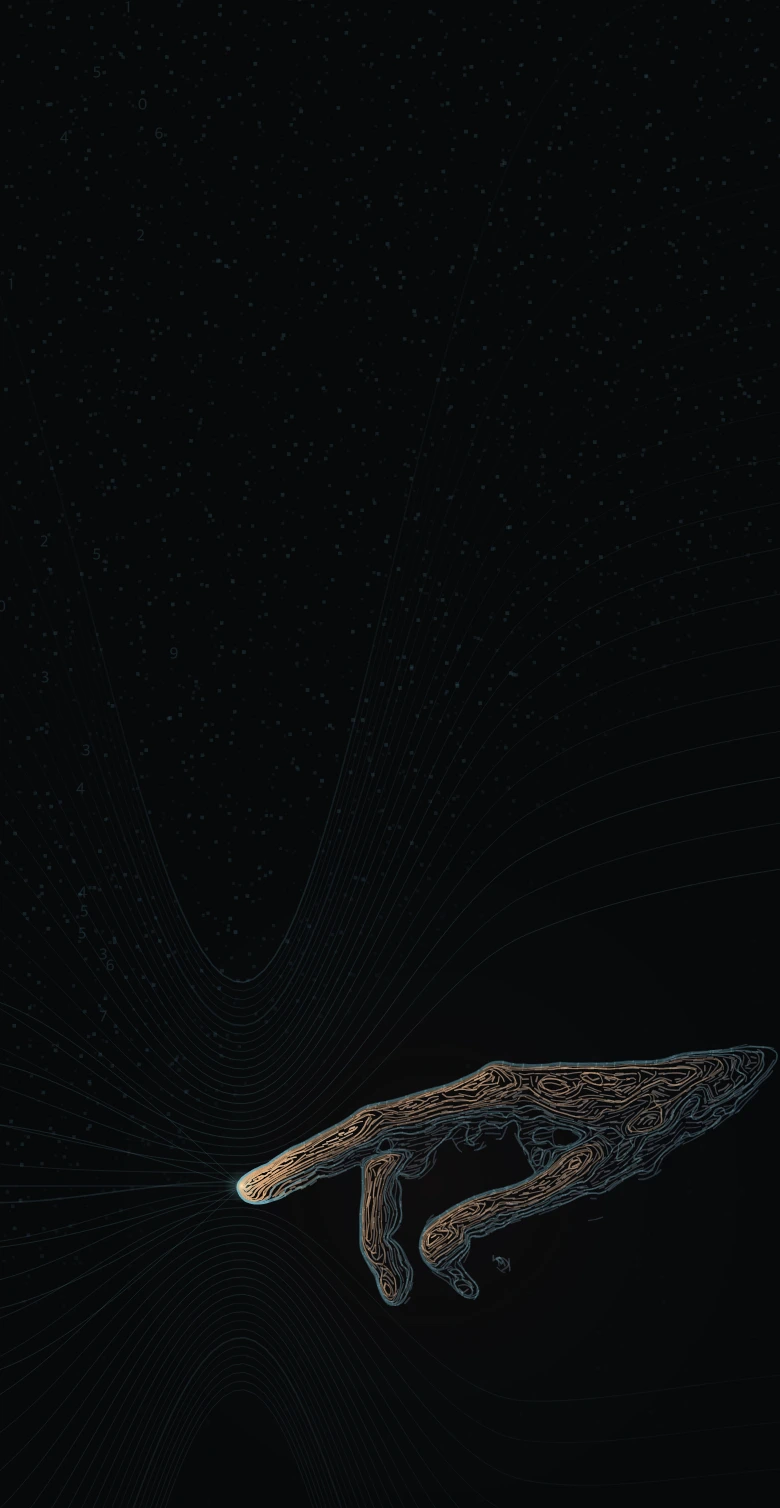
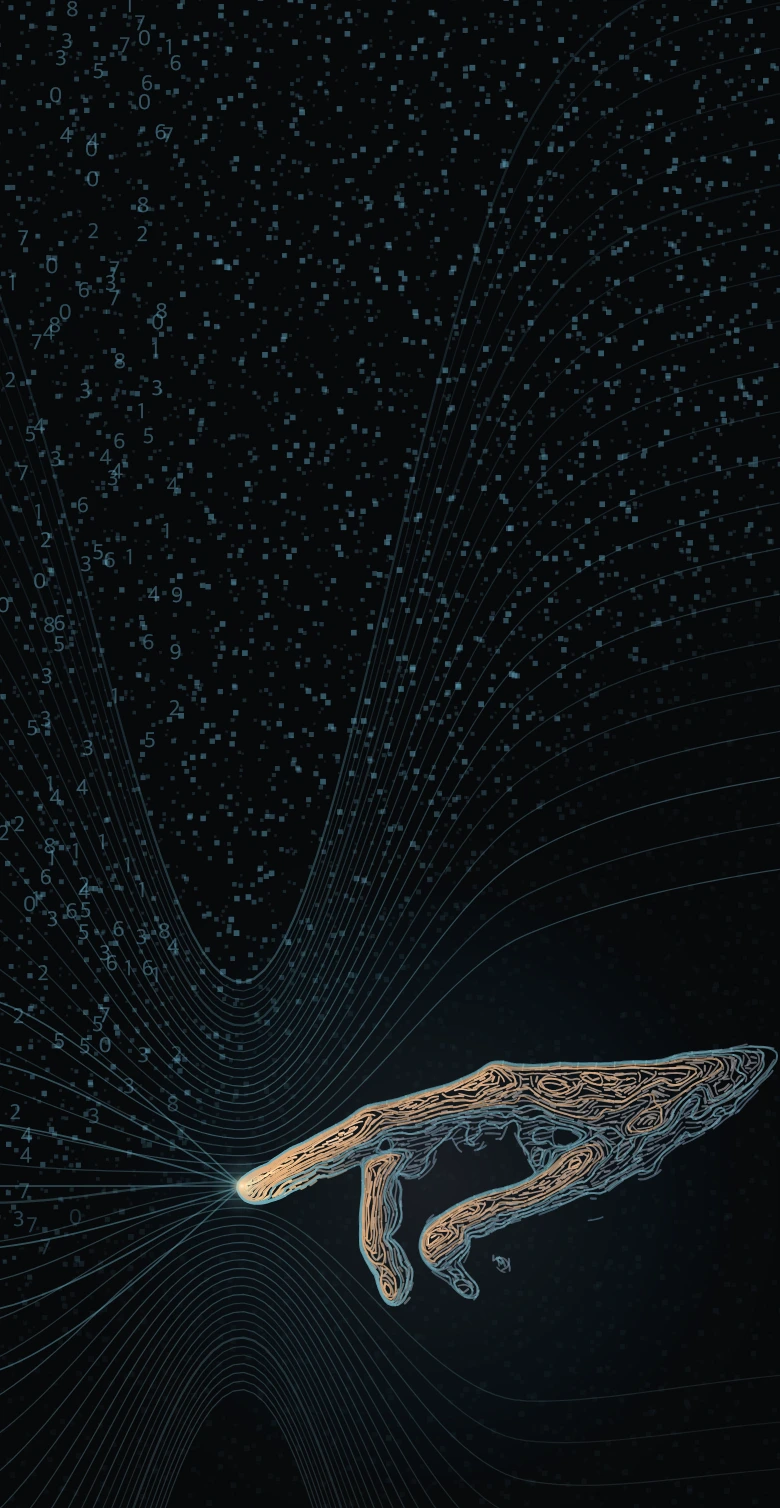
Make the data-to-touch transformation visibly materialize

diff --git a/hero/hands.js b/hero/hands.js
@@ -69,7 +69,7 @@
   /* ── state ── */
   let W = 0, H = 0, dpr = 1, mobile = false;
   let L = null;                       // layout
-  let marks = [], etchings = [], contours = [], currents = [], arrivals = [];                     // the lattice
+  let marks = [], etchings = [], contours = [], currents = [], arrivals = [], energySpine = [];
   let handImg = null, handLum = null, handSoft = null, HL_W = 0, HL_H = 0;
   let pinned = null, elapsed = 0, lastFrame = 0, frameId = 0, onscreen = true, live = false, paused = false;
 
@@ -170,6 +170,21 @@
   function buildMarks() {
     const X = handXform();
     const spine = HAND.path.map(p => X.toScene(...p));
+    energySpine = [];
+    for (let i = 0; i < spine.length - 1; i++) {
+      const p0 = spine[Math.max(0, i - 1)], p1 = spine[i];
+      const p2 = spine[i + 1], p3 = spine[Math.min(spine.length - 1, i + 2)];
+      for (let step = 0; step < 12; step++) {
+        const t = step / 12, t2 = t * t, t3 = t2 * t;
+        const point = [0, 1].map(axis => 0.5 * (
+          2 * p1[axis] + (-p0[axis] + p2[axis]) * t
+          + (2 * p0[axis] - 5 * p1[axis] + 4 * p2[axis] - p3[axis]) * t2
+          + (-p0[axis] + 3 * p1[axis] - 3 * p2[axis] + p3[axis]) * t3
+        ));
+        energySpine.push(point);
+      }
+    }
+    energySpine.push(spine[spine.length - 1]);
     const lengths = [0];
     for (let i = 1; i < spine.length; i++) {
       lengths.push(lengths[i - 1] + Math.hypot(spine[i][0] - spine[i - 1][0], spine[i][1] - spine[i - 1][1]));
@@ -188,6 +203,7 @@
       }
       return value;
     }
+    for (const point of energySpine) point.push(progress(point[0], point[1]));
     function sample(x, y) {
       const [u, v] = X.toImage(x, y);
       return lumAt(handLum, u, v);
@@ -223,7 +239,7 @@
           x: px, y: py, u: L.uOf(px, py), r,
           phase: hash(seed + 0.8) * Math.PI * 2,
           hand: sample(px, py),
-          size: 0.6 + r * 1.3
+          size: 1.0 + r * 1.9
         });
       }
     }
@@ -272,8 +288,11 @@
         occupied[occupiedIndex(...points[i])] = 1;
       }
       etchings.push({
-        path, lum: start.lum, u: L.uOf(start.x, start.y),
-        v: progress(start.x, start.y), rank: start.rank
+        path, lum: start.lum,
+        v: progress(start.x, start.y), rank: start.rank,
+        x: start.x, y: start.y,
+        sourceX: hash(start.x * 1.7 + start.y) * L.cx * 0.95,
+        sourceY: hash(start.y * 2.3 + start.x) * H
       });
     }
 
@@ -301,9 +320,8 @@
           const [px, py] = crossings[0];
           if (px < 0 || px > W || py < 0 || py > H) continue;
           const v = Math.floor(progress(px, py) * 28) / 28;
-          const u = Math.round(L.uOf(px, py) * 50) / 50;
-          const key = v + '/' + u;
-          if (!grouped.has(key)) grouped.set(key, {path: new Path2D(), v, u, level});
+          const key = v;
+          if (!grouped.has(key)) grouped.set(key, {path: new Path2D(), v, level});
           const group = grouped.get(key);
           group.path.moveTo(...crossings[0]);
           group.path.lineTo(...crossings[1]);
@@ -352,7 +370,8 @@
     const front = L.uTip + lerp(lerp(far, near, reach), far, release);
     const spark = Math.exp(-Math.pow((t - 4.62) / 0.25, 2)) * 0.8
       + ease(seg(t, 4.5, 4.8)) * (1 - ease(seg(t, 7.8, 9.1))) * 0.22;
-    return {front, spark, reach, release, pulse: seg(t, T.pulse[0], T.pulse[1])};
+    const assembly = ease(seg(t, 0.6, 4.5)) * (1 - release);
+    return {front, spark, reach, release, assembly, pulse: seg(t, T.pulse[0], T.pulse[1])};
   }
 
   const palettes = [];
@@ -376,8 +395,8 @@
 
     const atmosphere = ctx.createRadialGradient(L.cx + L.handLen * 0.4, L.cy, 1,
       L.cx + L.handLen * 0.4, L.cy, L.handLen * 0.85);
-    atmosphere.addColorStop(0, 'rgba(90,60,38,0.10)');
-    atmosphere.addColorStop(0.55, 'rgba(25,44,51,0.055)');
+    atmosphere.addColorStop(0, 'rgba(90,107,126,0.22)');
+    atmosphere.addColorStop(0.55, 'rgba(25,69,87,0.12)');
     atmosphere.addColorStop(1, 'rgba(7,8,10,0)');
     ctx.fillStyle = atmosphere;
     ctx.fillRect(0, 0, W, H);
@@ -385,20 +404,20 @@
 
     // The drawn current becomes visible as it approaches the point of touch.
     const flowLight = ctx.createLinearGradient(0, 0, W, mobile ? H : 0);
-    flowLight.addColorStop(0, 'rgba(70,139,166,0.015)');
-    flowLight.addColorStop(0.40, 'rgba(88,157,181,0.06)');
-    flowLight.addColorStop(0.65, 'rgba(119,188,205,0.22)');
-    flowLight.addColorStop(1, 'rgba(113,143,157,0.055)');
+    flowLight.addColorStop(0, 'rgba(70,139,166,0.10)');
+    flowLight.addColorStop(0.40, 'rgba(88,157,181,0.22)');
+    flowLight.addColorStop(0.65, 'rgba(119,188,205,0.42)');
+    flowLight.addColorStop(1, 'rgba(113,143,157,0.14)');
     ctx.strokeStyle = flowLight;
     for (const current of currents) {
       ctx.globalAlpha = 0.6 + current.rank * 0.6;
-      ctx.lineWidth = current.rank > 0.92 ? 0.8 : 0.4;
+      ctx.lineWidth = current.rank > 0.92 ? 1.1 : 0.6;
       ctx.stroke(current.path);
     }
     ctx.globalAlpha = 1;
 
-    // Rare numerals become grains. Their positions are periodic at the seam.
-    ctx.font = '8px "JetBrains Mono", monospace';
+    // A legible numerical field supplies the material of the drawing.
+    ctx.font = '11px "JetBrains Mono", monospace';
     for (const m of marks) {
       const order = ease(seg(m.u, k.front - 0.06, k.front + 0.06));
       if (m.hand > 0.04 && order > 0.98) continue;
@@ -406,16 +425,16 @@
       const x = m.x + Math.cos(phase + m.phase) * motion;
       const y = m.y + Math.sin(phase + m.phase) * motion * 0.6;
       const edge = 1 - ease(seg(Math.hypot(x - L.cx, y - L.cy), 8, L.handLen * 0.33));
-      const alpha = (0.025 + m.r * m.r * 0.14) * (1 - order * 0.9) + edge * (1 - order) * 0.06;
-      ctx.fillStyle = color('102,172,197', alpha);
-      if (m.r > 0.981 && order < 0.5 && x < L.cx - 35) {
+      const alpha = (0.12 + m.r * m.r * 0.32) * (1 - order * 0.9) + edge * (1 - order) * 0.12;
+      ctx.fillStyle = color('113,190,220', alpha);
+      if (m.r > 0.89 && order < 0.6 && x < L.cx - 35) {
         ctx.fillText(String(Math.floor(m.phase * 1.5)), x, y);
       } else {
         ctx.fillRect(x, y, m.size, m.size);
       }
     }
 
-    // Signals physically arrive at the fingertip. Their convergence is quiet.
+    // The incoming signals converge before the hand carries their energy.
     const arrival = ease(seg(t, 2.1, 4.5));
     const arrivalFade = 1 - ease(seg(t, 4.5, 5.0));
     for (const line of arrivals) {
@@ -423,8 +442,8 @@
       path.moveTo(line.startX, line.startY);
       path.bezierCurveTo(L.cx - L.handLen * 0.55, line.startY + line.offset,
         L.cx - L.handLen * 0.18, L.cy + line.offset, L.cx, L.cy);
-      ctx.strokeStyle = color('116,195,213', 0.035 + arrival * arrivalFade * 0.12);
-      ctx.lineWidth = 0.5;
+      ctx.strokeStyle = color('116,195,213', 0.08 + arrival * arrivalFade * 0.35);
+      ctx.lineWidth = 0.8;
       ctx.stroke(path);
       if (arrival > 0 && arrivalFade > 0) {
         const a = clamp(arrival * 1.07 - line.rank * 0.07, 0, 1);
@@ -434,50 +453,90 @@
         const y = inv ** 3 * line.startY + 3 * inv ** 2 * a * (line.startY + line.offset)
           + 3 * inv * a ** 2 * (L.cy + line.offset) + a ** 3 * L.cy;
         ctx.fillStyle = color('170,223,231', arrivalFade * (0.3 + arrival * 0.5));
-        ctx.fillRect(x, y, 1.5, 1.5);
+        ctx.fillRect(x, y, 3, 3);
       }
     }
 
-    function illumination(v, u) {
-      const ordered = ease(seg(u, k.front - 0.045, k.front + 0.045));
+    function illumination(v) {
+      const formed = ease(seg(k.assembly, 0.10 + v * 0.23, 0.62 + v * 0.30));
+      const ordered = 0.18 + formed * 0.82;
       const distance = v - k.pulse;
       const pulse = t >= T.pulse[0] && t <= T.pulse[1]
-        ? Math.exp(-(distance * distance) / 0.009) * (1 - ease(seg(v, 0.87, 1))) : 0;
+        ? Math.exp(-(distance * distance) / 0.016) * (1 - ease(seg(v, 0.90, 1))) : 0;
       const arrivedAt = T.pulse[0] + v * (T.pulse[1] - T.pulse[0]);
       const memory = t > arrivedAt
         ? Math.exp(-(t - arrivedAt) / 2.5) * (1 - k.release) : 0;
-      return {ordered, pulse, memory};
+      return {ordered, formed, pulse, memory};
+    }
+    // Selected marks travel out of the data field and settle into anatomy.
+    for (const stroke of etchings) {
+      if (stroke.rank < 0.76) continue;
+      const light = illumination(stroke.v);
+      if (light.formed > 0.995) continue;
+      const amount = light.formed;
+      const arc = Math.sin(amount * Math.PI);
+      const x = lerp(stroke.sourceX, stroke.x, amount);
+      const y = lerp(stroke.sourceY, stroke.y, amount)
+        + arc * (stroke.rank - 0.85) * H * 0.7;
+      ctx.fillStyle = color('143,216,239', (0.34 + amount * 0.40) * (1 - amount));
+      if (stroke.rank > 0.94 && amount < 0.68) {
+        ctx.fillText(String(Math.floor(stroke.rank * 100)), x, y);
+      } else {
+        const size = 2 + amount * 2;
+        ctx.fillRect(x, y, size, size);
+      }
     }
     for (const stroke of etchings) {
-      const light = illumination(stroke.v, stroke.u);
+      const light = illumination(stroke.v);
       if (light.ordered < 0.005) continue;
       const shade = clamp((stroke.lum - 0.035) / 0.65, 0, 1);
       const rgb = palettes[Math.round(shade * 23)];
-      ctx.lineWidth = 0.55 + stroke.rank * 0.38;
-      ctx.strokeStyle = color(rgb, light.ordered * (0.24 + shade * 0.66 + light.memory * 0.18));
+      ctx.lineWidth = 0.75 + stroke.rank * 0.40;
+      ctx.strokeStyle = color(rgb, light.ordered * (0.48 + shade * 0.80 + light.memory * 0.26));
       ctx.stroke(stroke.path);
       if (light.pulse > 0.015) {
-        ctx.strokeStyle = color('255,191,128', light.pulse * light.ordered * 0.6);
-        ctx.lineWidth = 0.85;
+        ctx.strokeStyle = color('255,207,146', light.pulse * light.ordered * 0.95);
+        ctx.lineWidth = 1.3;
         ctx.stroke(stroke.path);
       }
     }
     for (const contour of contours) {
-      const light = illumination(contour.v, contour.u);
+      const light = illumination(contour.v);
       if (light.ordered < 0.005) continue;
       const copper = contour.level > 0.19;
-      ctx.lineWidth = contour.level < 0.1 ? 0.8 : 0.65;
+      ctx.lineWidth = contour.level < 0.1 ? 1.0 : 0.85;
       ctx.strokeStyle = color(copper ? '221,170,124' : '110,169,183',
-        light.ordered * (0.30 + contour.level * 0.40 + light.memory * 0.22 + light.pulse * 0.45));
+        light.ordered * (0.55 + contour.level * 0.50 + light.memory * 0.30 + light.pulse * 0.65));
       ctx.stroke(contour.path);
+    }
+
+    // A broad glow and a fine core make the travelling energy readable.
+    if (t >= T.pulse[0] && t < T.pulse[1]) {
+      ctx.globalCompositeOperation = 'lighter';
+      for (const pass of [0, 1]) {
+        ctx.lineWidth = pass === 0 ? L.handLen * 0.033 : Math.max(1.4, L.handLen * 0.0045);
+        for (let i = 1; i < energySpine.length; i++) {
+          const v = energySpine[i][2];
+          const envelope = Math.exp(-Math.pow((v - k.pulse) / 0.12, 2))
+            * ease(seg(t, T.pulse[0], T.pulse[0] + 0.3))
+            * (1 - ease(seg(k.pulse, 0.86, 1)));
+          if (envelope < 0.01) continue;
+          ctx.strokeStyle = color(pass === 0 ? '255,160,70' : '255,235,192', envelope * (pass === 0 ? 0.13 : 0.9));
+          ctx.beginPath();
+          ctx.moveTo(energySpine[i - 1][0], energySpine[i - 1][1]);
+          ctx.lineTo(energySpine[i][0], energySpine[i][1]);
+          ctx.stroke();
+        }
+      }
+      ctx.globalCompositeOperation = 'source-over';
     }
 
     // A trace returns into the current after the hand has received the signal.
     const returning = seg(t, 6.5, 9.2);
     if (returning > 0 && returning < 1) {
-      ctx.lineWidth = 0.65;
+      ctx.lineWidth = 1.0;
       const radius = returning * L.handLen * 1.05;
-      const envelope = Math.sin(returning * Math.PI) * 0.2;
+      const envelope = Math.sin(returning * Math.PI) * 0.5;
       for (const current of currents) {
         if (!current.narrow || current.rank < 0.35) continue;
         ctx.strokeStyle = color('217,167,119', envelope);
@@ -494,7 +553,7 @@
       }
     }
     if (k.spark > 0.005) {
-      const radius = L.handLen * 0.037;
+      const radius = L.handLen * 0.065;
       const glow = ctx.createRadialGradient(L.cx, L.cy, 0, L.cx, L.cy, radius);
       glow.addColorStop(0, color('255,247,225', k.spark));
       glow.addColorStop(0.12, color('255,222,171', k.spark * 0.7));

diff --git a/index.html b/index.html
@@ -104,7 +104,7 @@
 <link rel="preconnect" href="https://fonts.googleapis.com">
 <link rel="preconnect" href="https://fonts.gstatic.com" crossorigin>
 <link href="https://fonts.googleapis.com/css2?family=Inter:wght@300;400;500;600;700&family=Instrument+Serif:ital@0;1&family=JetBrains+Mono:wght@400;500&display=swap" rel="stylesheet">
-<script src="hero/hands.js?v=2" defer></script>
+<script src="hero/hands.js?v=3" defer></script>
 
 <style>
 /* ─── palette ───
@@ -402,7 +402,7 @@ body::before {
   position: absolute; inset: 0;
   z-index: 1;
   overflow: hidden;
-  background: var(--ink) url(hero/contact-still.webp) no-repeat 72% 50% / cover;
+  background: var(--ink) url(hero/contact-still.webp?v=3) no-repeat 72% 50% / cover;
 }
 .hero-scene canvas {
   position: absolute; inset: 0;
@@ -974,21 +974,22 @@ section[tabindex="-1"]:focus, #top:focus { outline: none; }
 .tag, .eyebrow, .work-meta, .role-date, .hero-location, .publication-kind, .profile-link { font-family: 'JetBrains Mono', monospace; }
 .tag { color: var(--w-60); font-size: .68rem; letter-spacing: .12em; }
 .hero { min-height: 0; height: auto; background: var(--ink); }
-.hero-vignette { background: linear-gradient(90deg,rgba(7,8,10,.94) 0%,rgba(7,8,10,.82) 32%,rgba(7,8,10,.34) 54%,rgba(7,8,10,0) 68%,rgba(7,8,10,0) 89%,rgba(7,8,10,.88) 100%),linear-gradient(0deg,#07080a 0%,rgba(7,8,10,.55) 12%,transparent 30%,transparent 72%,rgba(7,8,10,.42) 100%); }
+.hero-vignette { background: linear-gradient(90deg,rgba(7,8,10,.22) 0%,rgba(7,8,10,.25) 32%,rgba(7,8,10,.14) 54%,rgba(7,8,10,0) 68%,rgba(7,8,10,0) 89%,rgba(7,8,10,.70) 100%),linear-gradient(0deg,#07080a 0%,rgba(7,8,10,.55) 12%,transparent 30%,transparent 72%,rgba(7,8,10,.42) 100%); }
 .hero-content { min-height: 0; height: auto; padding-top: 0; justify-content: center; }
 .hero-center { width: 100%; padding: 7rem 2rem 2.25rem; margin: 0 auto; align-items: flex-start; text-align: left; flex: 0; }
 .eyebrow { font-size: .68rem; letter-spacing: .11em; line-height: 1.8; color: var(--cyan); text-transform: uppercase; }
 .hero-title { font-size: clamp(4.5rem,8vw,7rem); margin: 1.25rem 0 1.5rem; font-weight: 400; letter-spacing: -.065em; line-height: .95; }
 .hero-lead { max-width: 665px; font-size: clamp(1.12rem,1.6vw,1.34rem); color: var(--w-90); line-height: 1.7; letter-spacing: -.02em; }
+.hero-title, .hero-center .eyebrow, .hero-lead, .hero-ctas .text-link, .hero-location, .hero-foot .scroll-hint-inner { text-shadow: 0 1px 2px #07080a, 0 0 8px rgba(7,8,10,.9); }
 @media (min-width: 1024px) { .hero-lead { max-width: min(665px, 56vw); } }
 .hero-ctas { justify-content: flex-start; margin-top: 1.5rem; gap: 1.8rem; align-items: center; }
 .text-link { display: inline-flex; align-items: center; gap: .7rem; font-size: .9rem; padding: .6rem 0; border-bottom: 1px solid var(--w-30); color: var(--w-85); }
 .text-link:hover { color: var(--cyan); border-color: var(--cyan); }
 .text-link svg { width: 16px; height: 16px; }
 .hero-foot { width: 100%; margin: 0 auto; padding: 0 2rem 1.5rem; display: flex; justify-content: space-between; gap: 1rem; color: var(--w-50); }
-.hero-location { font-size: .64rem; line-height: 1.8; letter-spacing: .05em; }
+.hero-location { font-size: .64rem; line-height: 1.8; letter-spacing: .05em; color: var(--w-70); }
 .hero-location span { display: block; }
-.hero-location #heroCoords { color: var(--w-40); font-size: .6rem; }
+.hero-location #heroCoords { color: var(--w-60); font-size: .6rem; }
 .hero-foot .scroll-hint-inner { flex-direction: row; font-size: .62rem; }
 .hero-footer-actions { position: relative; display: flex; align-items: center; gap: .75rem; }
 .hero-motion { display: grid; place-items: center; width: 44px; height: 44px; flex: 0 0 44px; color: var(--w-60); border-radius: 50%; }
@@ -1036,15 +1037,15 @@ section[tabindex="-1"]:focus, #top:focus { outline: none; }
 /* below 1024px the copy spans most of the width: the field stays behind everything, and the hand gets a room below the introduction */
 @media (max-width: 1023px) {
   .hero-room { display: block; height: clamp(220px, 58vw, 340px); }
-  .hero-vignette { background: linear-gradient(180deg,rgba(7,8,10,.74) 0%,rgba(7,8,10,.64) 46%,rgba(7,8,10,.16) 62%,rgba(7,8,10,0) 76%,rgba(7,8,10,.86) 100%); }
-  .hero-scene { background-image: url(hero/contact-tablet.webp); background-position: center bottom; }
+  .hero-vignette { background: linear-gradient(180deg,rgba(7,8,10,.25) 0%,rgba(7,8,10,.30) 46%,rgba(7,8,10,.10) 62%,rgba(7,8,10,0) 76%,rgba(7,8,10,.86) 100%); }
+  .hero-scene { background-image: url(hero/contact-tablet.webp?v=3); background-position: center bottom; }
   .nav { display: flex; gap: .3rem; flex-wrap: wrap; justify-content: flex-end; border: 0; background: none; }
   .nav a { padding: .45rem .6rem; font-size: .72rem; }
   .has-menu .nav { display: none; }
   .work-row, .split-section, .purposes { gap: 2.5rem; }
 }
 @media (max-width: 719px) {
-  .hero-scene { background-image: url(hero/contact-mobile.webp); }
+  .hero-scene { background-image: url(hero/contact-mobile.webp?v=3); }
   .hero { min-height: 0; }
   .hero-center { padding: 6.5rem 1.4rem 2rem; }
   .hero-title { margin: 1rem 0 1.25rem; font-size: clamp(4.25rem,18vw,5.5rem); }

diff --git a/CLAUDE.md b/CLAUDE.md
@@ -43,8 +43,8 @@ The owner then approved only a shorter opening and sharper accounts of existing 
 
 Published on 9 November 2026 after independent visual, interaction and source-integrity checks. The owner authorized Codex to take Claude's abstract hand beyond its first implementation, including internet research for artistic inspiration. The scene uses the same anatomical study and Canvas 2D foundation, refined into several scales of drawn detail.
 
-- `hero/hands.js` generates a sparse pixel and numeral field, long incoming currents, fine curved hatching, and continuous tonal contours. The hidden source image `hero/hand.webp` supplies luminance and surface orientation. Its pixels are sampled for geometry. The visible hand is drawn from paths.
-- The twelve-second choreography assembles the fingertip, brings seven signals to it, passes warmth through the hand, and briefly leaves a warm trace in the surrounding current. The surface holds a fading afterimage of the pulse. Ambient motion is periodic across the loop boundary.
+- `hero/hands.js` generates a visible pixel and numeral field across the full hero, long incoming currents, fine curved hatching, and continuous tonal contours. The owner requested stronger activity behind the copy and a more dramatic transformation on 9 November 2026. Local text shadows and a lighter vignette keep the copy readable while the field remains visible. The hidden source image `hero/hand.webp` supplies luminance and surface orientation. Its pixels are sampled for geometry. The visible hand is drawn from paths.
+- The twelve-second choreography moves individual marks from the left field into the hand, progressively materializing its anatomy. Seven signals converge at the fingertip, and a bright energy core with a broader glow travels through the hand, followed by a warm trace in the surrounding current. The surface holds a fading afterimage of the pulse. Ambient motion is periodic across the loop boundary.
 - References informing the refinement include Nervous System's Hyphae, Ryoji Ikeda's data-verse and Quayola's Landscape Paintings, alongside Claude's Nees and Molnár references. All visible paths are generated by this engine.
 - Desktop text keeps its content-driven layout. At widths below 1024 px, `#heroRoom` reserves space below the introduction. The hand is drawn further left on phones to reveal more of its gesture.
 - Three posters are generated from the same engine at contact. `hero/contact-still.webp` serves desktop, `hero/contact-tablet.webp` serves 720–1023 px, and `hero/contact-mobile.webp` serves smaller widths. The poster stays beneath the canvas, including when the script, source image or canvas context fails.
